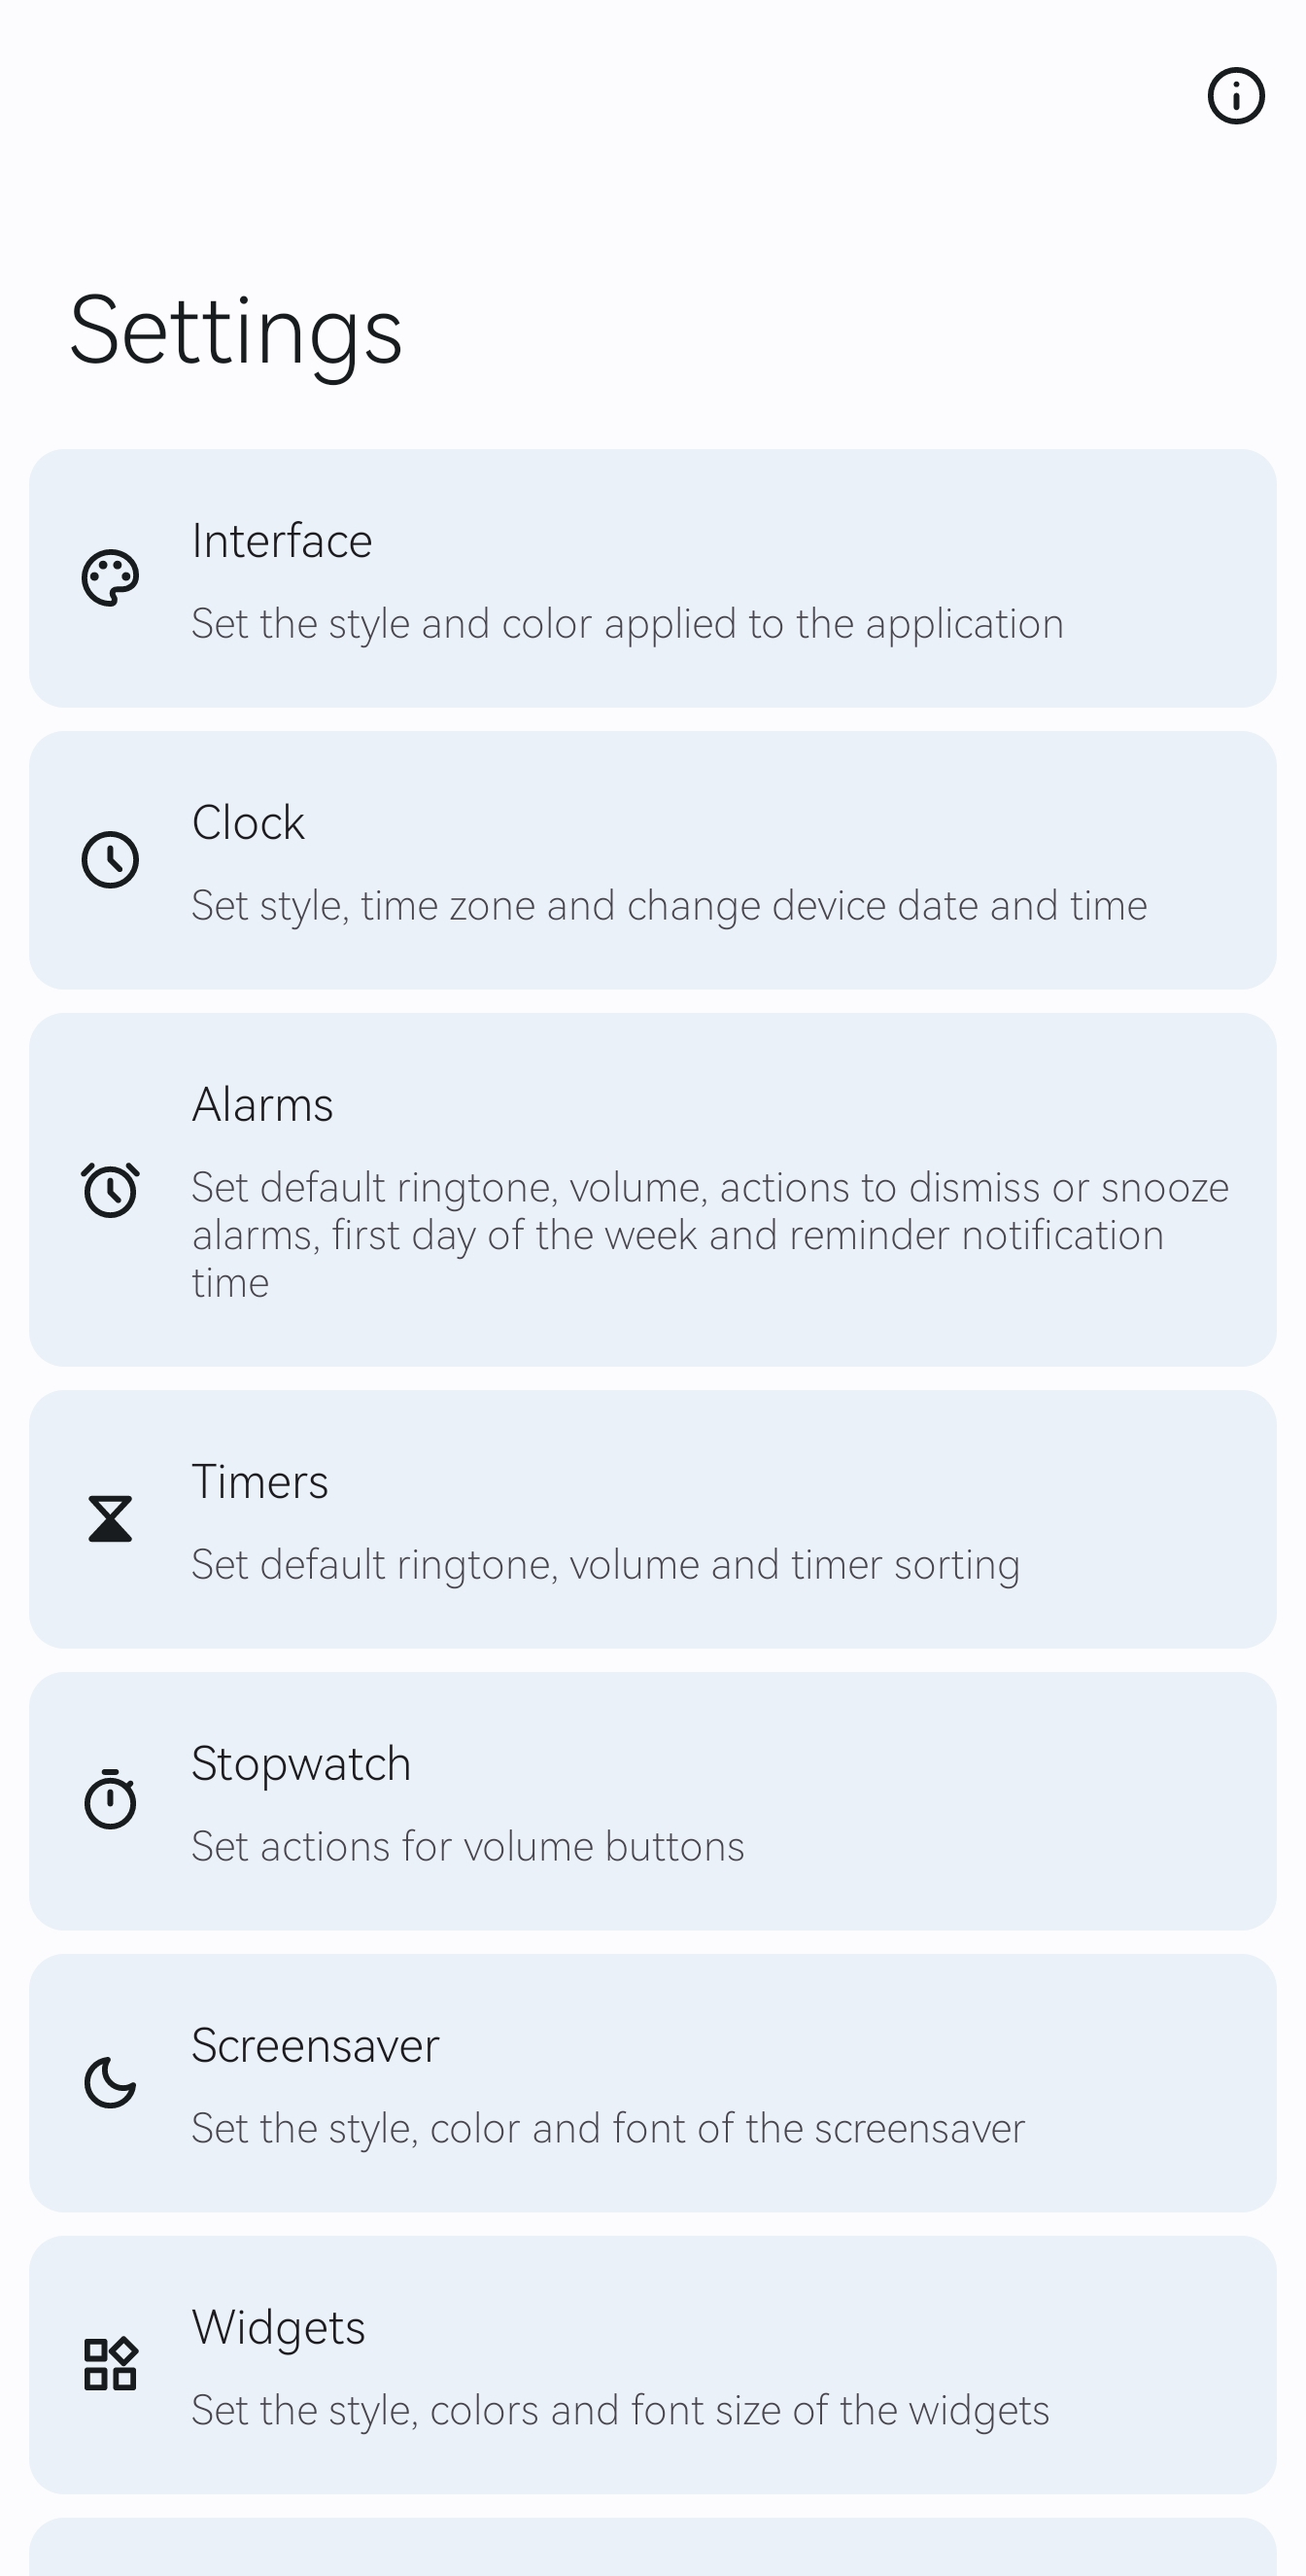
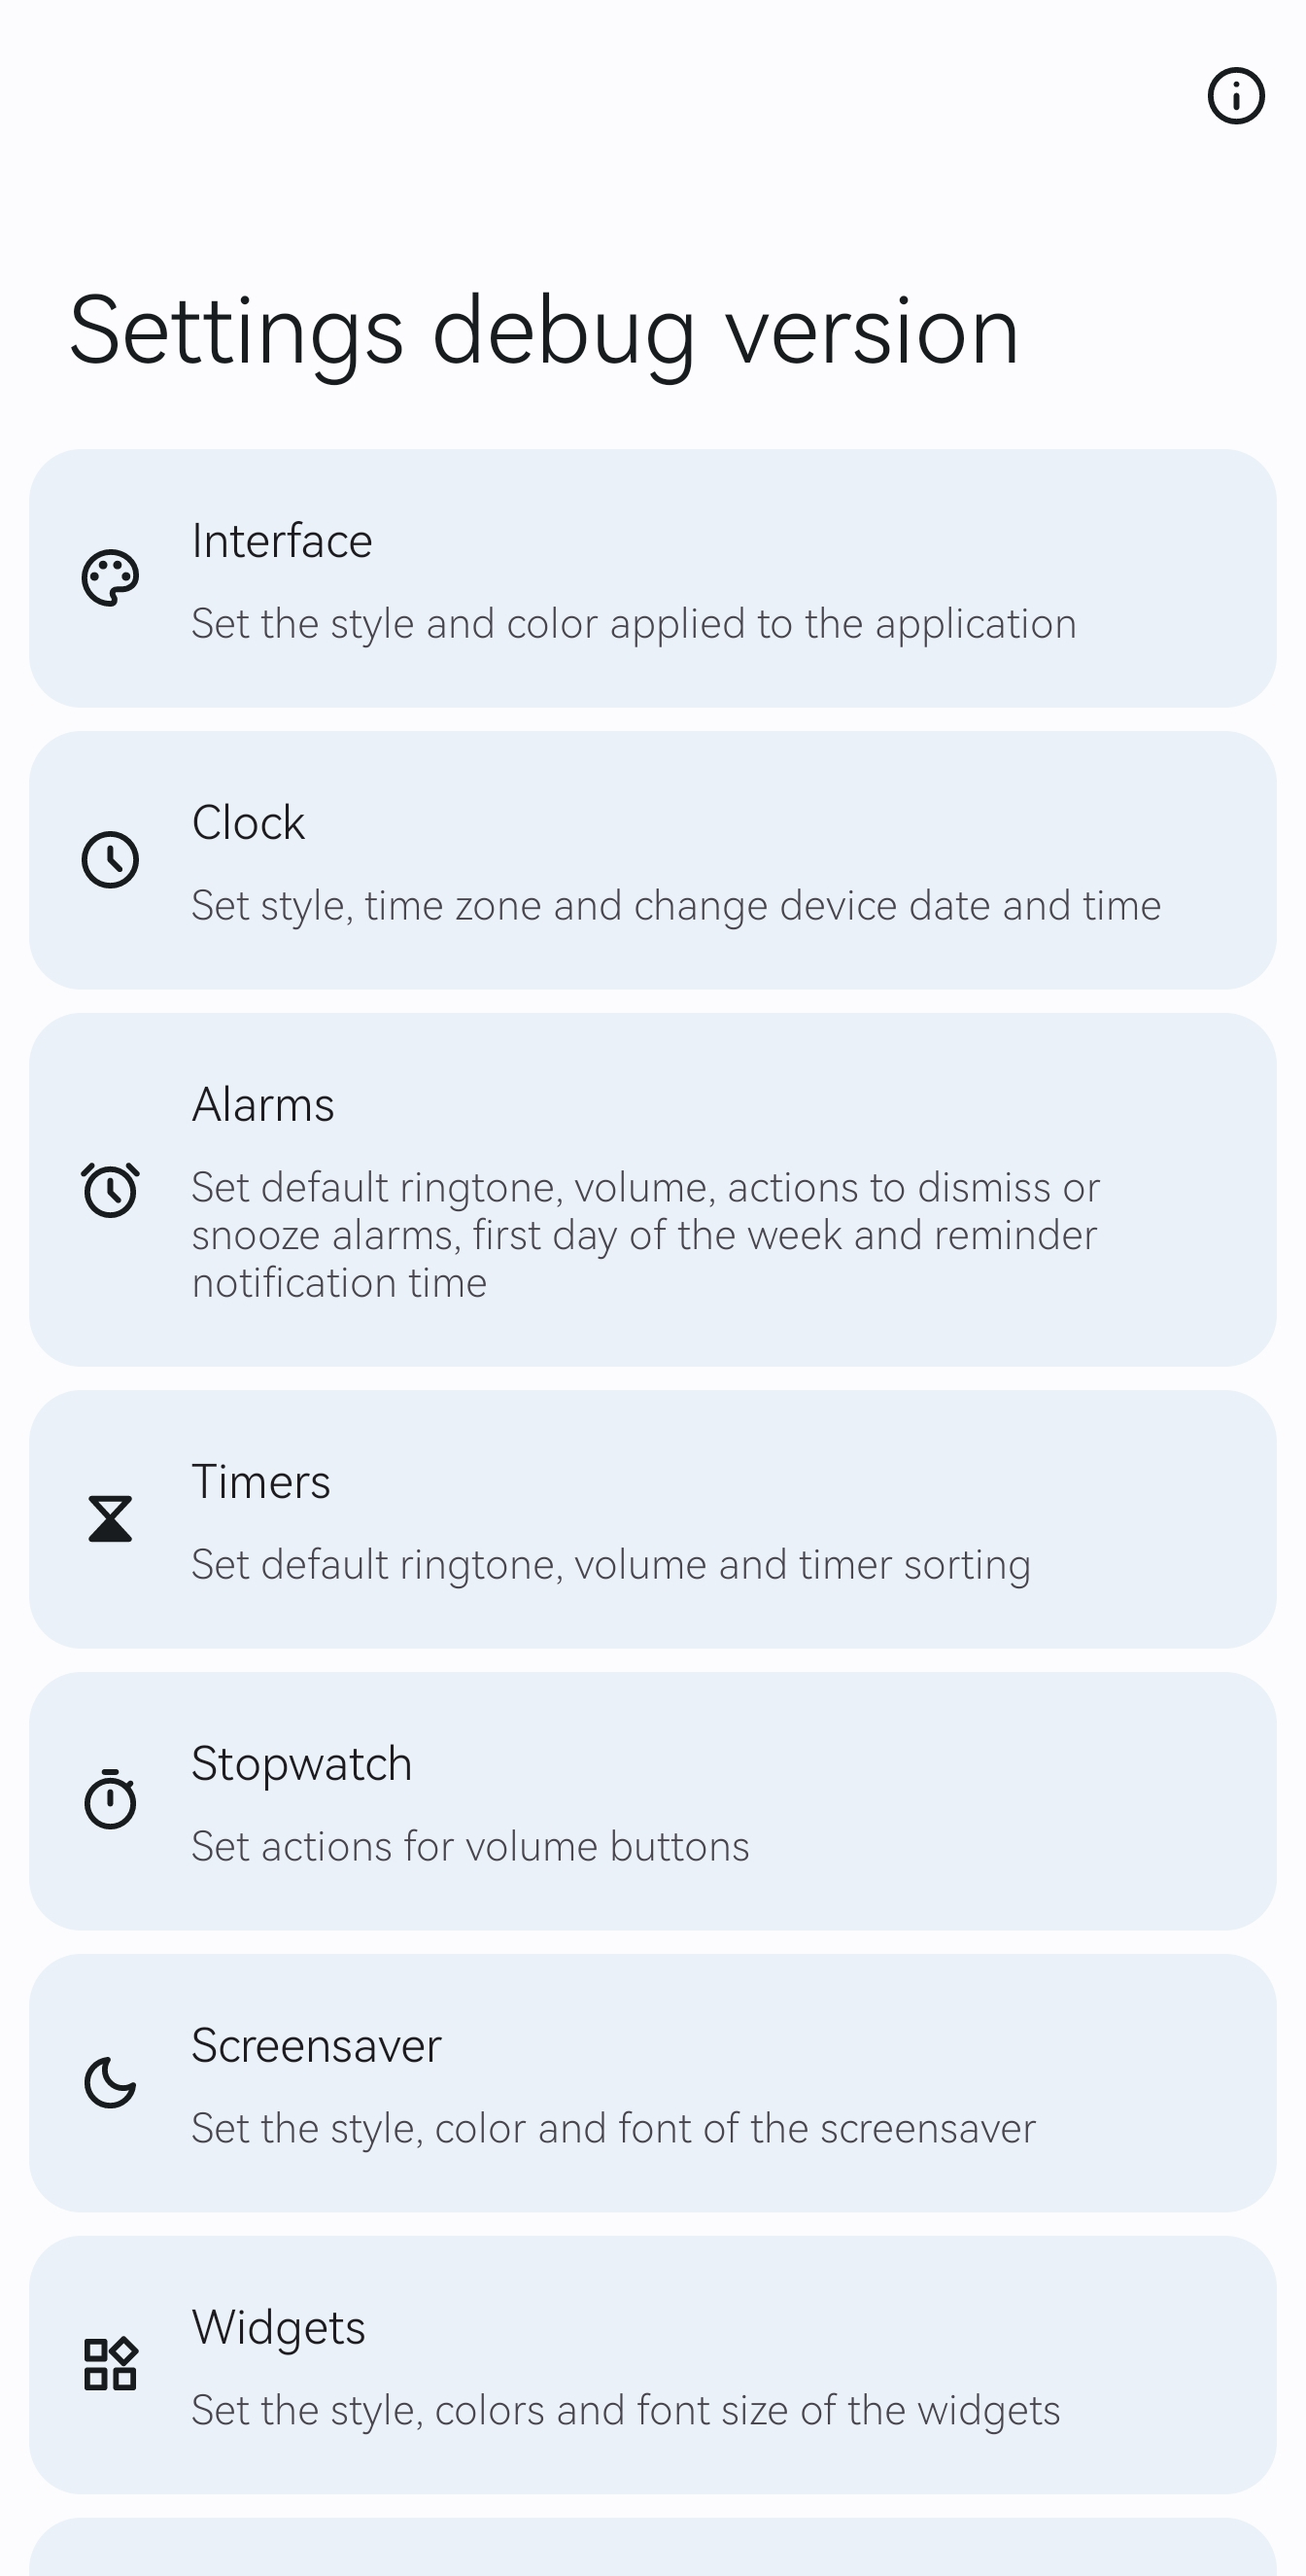
Increase card corner radius
- Screenshots updated in Readme

diff --git a/app/src/main/java/com/best/deskclock/timer/ExpiredTimersActivity.java b/app/src/main/java/com/best/deskclock/timer/ExpiredTimersActivity.java
@@ -212,12 +212,10 @@ public class ExpiredTimersActivity extends AppCompatActivity {
                 getLayoutInflater().inflate(R.layout.timer_item, mExpiredTimersView, false);
         // Store the timer id as a tag on the view so it can be located on delete.
         timerItem.setId(timerId);
-        timerItem.setBackground(Utils.cardBackground(timerItem.getContext()));
         mExpiredTimersView.addView(timerItem);
 
         // Hide the label hint for expired timers.
         final TextView labelView = timerItem.findViewById(R.id.timer_label);
-        labelView.setHint(null);
         labelView.setVisibility(TextUtils.isEmpty(timer.getLabel()) ? View.GONE : View.VISIBLE);
 
         // Add logic to the "Add Minute Or Hour" button.

diff --git a/app/src/main/java/com/best/deskclock/utils/Utils.java b/app/src/main/java/com/best/deskclock/utils/Utils.java
@@ -169,7 +169,7 @@ public class Utils {
     public static Drawable cardBackground (Context context) {
         final String darkMode = DataModel.getDataModel().getDarkMode();
         final boolean isCardBackgroundDisplayed = DataModel.getDataModel().isCardBackgroundDisplayed();
-        final int radius = toPixel(12, context);
+        final int radius = toPixel(18, context);
         final GradientDrawable gradientDrawable = new GradientDrawable();
 
         gradientDrawable.setCornerRadius(radius);

diff --git a/app/src/main/java/com/best/deskclock/timer/TimerItem.java b/app/src/main/java/com/best/deskclock/timer/TimerItem.java
@@ -90,6 +90,9 @@ public class TimerItem extends ConstraintLayout {
     @Override
     protected void onFinishInflate() {
         super.onFinishInflate();
+
+        setBackground(Utils.cardBackground(getContext()));
+
         mLabelView = findViewById(R.id.timer_label);
         mResetButton = findViewById(R.id.reset);
         mAddTimeButton = findViewById(R.id.timer_add_time_button);

diff --git a/app/src/main/java/com/best/deskclock/timer/TimerViewHolder.java b/app/src/main/java/com/best/deskclock/timer/TimerViewHolder.java
@@ -34,9 +34,6 @@ public class TimerViewHolder extends RecyclerView.ViewHolder {
         super(view);
 
         final Context context = view.getContext();
-
-        view.setBackground(Utils.cardBackground(context));
-
         mTimerItem = (TimerItem) view;
         mTimerClickHandler = timerClickHandler;
 
